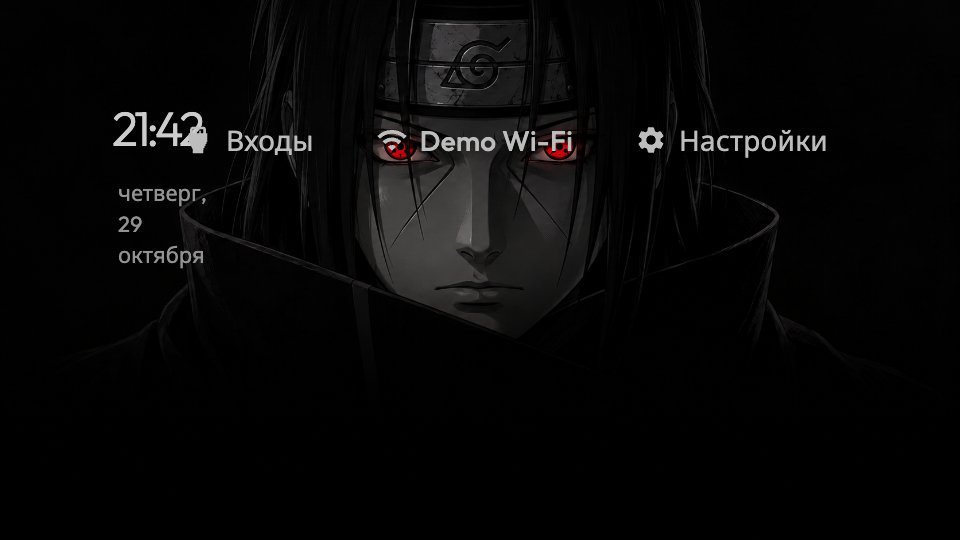
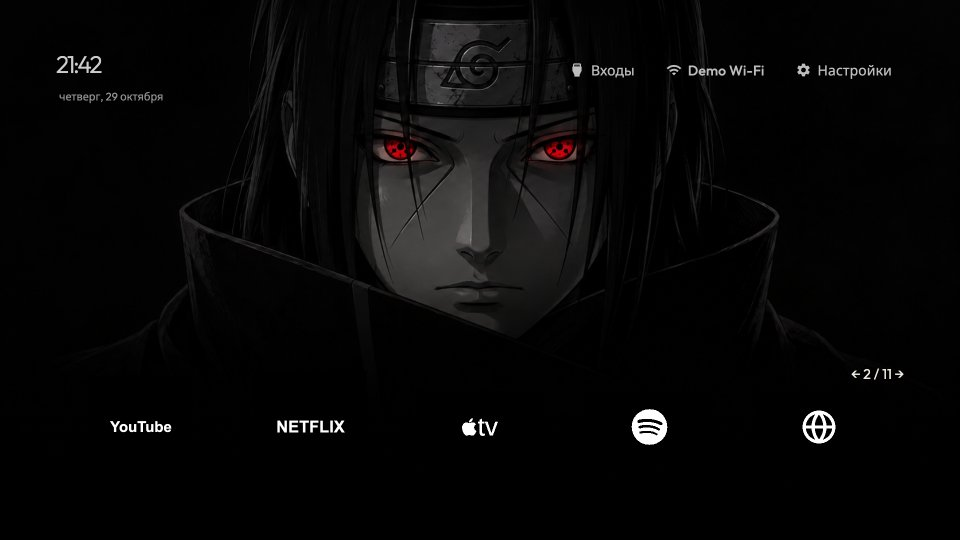
fix(themes): preserve picker state and column preferences

diff --git a/launcher/theme-panel.js b/launcher/theme-panel.js
@@ -6,13 +6,13 @@
  function node(tag,text){var el=document.createElement(tag);if(text!==undefined)el.textContent=t(text);return el;}
  function button(label,fn,id){var b=node('button',label);b.type='button';if(id)b.id=id;b.onclick=fn;card.appendChild(b);return b;}
  function disposePreviews(){previewLeases.forEach(function(lease){lease.dispose();});previewLeases=[];}
- function heading(title,description){var columns=document.getElementById('homeColumns');if(inlineHost&&columns)columns.parentNode.classList.toggle('theme-context-hidden',mode!=='list');disposePreviews();card.textContent='';var titleNode=node('h2',title);if(title==='Themes')titleNode.className='theme-list-title';card.appendChild(titleNode);if(description)card.appendChild(node('p',description));}
+ function heading(title,description){var columns=document.getElementById('homeColumns');if(inlineHost&&columns)columns.parentNode.classList.toggle('theme-context-hidden',mode!=='list');disposePreviews();card.removeAttribute('aria-busy');card.textContent='';var titleNode=node('h2',title);if(title==='Themes')titleNode.className='theme-list-title';card.appendChild(titleNode);if(description)card.appendChild(node('p',description));}
  function message(text){var e=document.getElementById('themeMessage');if(!e){e=node('p');e.id='themeMessage';e.setAttribute('role','status');card.appendChild(e);}e.textContent=t(text);}
  function focusFirst(){var b=card.querySelector('button:not([disabled]),input');if(b)b.focus();}
  function parentVisible(visible){['#renewalPanel','.root-settings'].forEach(function(id){var el=document.querySelector(id);if(el)el.style.visibility=visible?'':'hidden';});}
  function standard(){clearInterval(tick);if(inlineHost){inlineHost.appendChild(panel);panel.classList.add('theme-inline');panel.removeAttribute('aria-modal');panel.setAttribute('role','region');}panel.classList.remove('theme-trial');panel.classList.remove('theme-picker');parentVisible(true);if(root.ThemeRuntime){ThemeRuntime.suspend('themes');if(settingsOwner)ThemeRuntime.suspend('settings');}}
  function picker(){if(inlineHost){standard();return;}clearInterval(tick);panel.classList.remove('theme-trial');panel.classList.add('theme-picker');parentVisible(false);if(root.ThemeRuntime){ThemeRuntime.resume('themes');ThemeRuntime.resume('settings');}}
- function close(){stopReceiver();disposePreviews();var version=++view;if(signal){signal.cancelled=true;if(signal.cancel)signal.cancel();signal=null;}busy=false;root.ThemeManager.cancel().then(function(){if(version!==view)return;standard();if(inlineHost){render();var tab=document.querySelector('[data-category="appearance"]');if(tab)tab.focus();}else{panel.hidden=true;if(root.ThemeRuntime)ThemeRuntime.resume('themes');if(previous)previous.focus();}});}
+ function close(){stopReceiver();if(!inlineHost||!card.querySelector('.theme-installed-grid'))disposePreviews();var version=++view;if(signal){signal.cancelled=true;if(signal.cancel)signal.cancel();signal=null;}busy=false;root.ThemeManager.cancel().then(function(){if(version!==view)return;standard();if(inlineHost){if(card.querySelector('.theme-installed-grid')){mode='list';applying(false);refreshSelected();}else render();var tab=document.querySelector('[data-category="appearance"]');if(tab)tab.focus();}else{panel.hidden=true;if(root.ThemeRuntime)ThemeRuntime.resume('themes');if(previous)previous.focus();}});}
  function deactivate(){stopReceiver();inlineActive=false;if(!panel||panel.hidden)return;view++;disposePreviews();clearInterval(tick);if(signal){signal.cancelled=true;if(signal.cancel)signal.cancel();signal=null;}busy=false;root.ThemeManager.cancel();standard();panel.hidden=true;if(root.ThemeRuntime)ThemeRuntime.resume('themes');}
 
 
@@ -25,7 +25,7 @@
  function render(){stopReceiver();if(!openNow())return;var ownsFocus=panel.contains(document.activeElement);picker();mode='list';busy=true;var version=++view;heading('Themes','Choose a theme for Home. Settings stay standard.');message('Loading themes…');button('Restore Classic',function(){root.ThemeManager.reset();render();});button('Back',close);if(ownsFocus)focusFirst();var loadingFocus=document.activeElement;
   Promise.all([root.ThemeManager.list(),root.ThemeData.request('theme-catalog.json',65536,true).then(function(bytes){return JSON.parse(root.ThemeData.decode(bytes)).themes||[];}).catch(function(){return [];})]).then(function(result){var items=result[0],previews=result[1];if(version!==view)return;var restoreSelected=!inlineHost||panel.contains(document.activeElement)||ownsFocus&&document.activeElement===loadingFocus;busy=false;heading('Themes','Choose a theme for Home. Settings stay standard.');var current=root.ThemeManager.current();if(current.notice)message(current.notice);function isSelected(item){return item.id===current.id&&(!item.digest||item.digest===current.digest);}items=items.filter(isSelected).concat(items.filter(function(item){return !isSelected(item);}));var installed=node('div');installed.className='theme-installed-grid';card.appendChild(installed);
    installed.addEventListener('focusin',function(event){var row=event.target;while(row&&row.parentNode!==installed)row=row.parentNode;if(!row)return;var bounds=row.getBoundingClientRect(),lane=installed.getBoundingClientRect();if(bounds.left<lane.left+8)installed.scrollLeft-=lane.left+8-bounds.left;else if(bounds.right>lane.right-8)installed.scrollLeft+=bounds.right-lane.right+8;});
-   items.forEach(function(item){var selected=item.id===current.id&&(!item.digest||item.digest===current.digest),row=node('div');row.className='theme-option';row.setAttribute('data-selected',String(selected));installed.appendChild(row);var b=node('button');b.type='button';b.className='theme-choice';b.setAttribute('data-theme-id',item.id);b.setAttribute('aria-pressed',String(selected));b.setAttribute('aria-label',item.title+(item.version?' '+item.version:'')+(selected?' · '+t('Selected'):''));b.onclick=function(){selectInstalled(item);};var preview=item.builtin&&previews.filter(function(entry){return entry.id===item.id;})[0];if(preview){try{root.ThemeData.path(preview.preview);if(/^(theme-catalog|themes\/alpine)\//.test(preview.preview))previewImage(preview,b);}catch(_){}}else if(!item.builtin){installedPreview(item,b,version);}b.appendChild(node('strong',item.title));if(selected){var badge=node('span','Selected');badge.className='theme-selected';b.appendChild(badge);}row.appendChild(b);row.appendChild(node('small',item.builtin?'Built-in':'Downloaded'));if(!item.builtin){var meta=node('p',item.version+' · '+item.author+' · '+item.license);meta.className='theme-meta';row.appendChild(meta);}
+   items.forEach(function(item){var selected=item.id===current.id&&(!item.digest||item.digest===current.digest),row=node('div');row.className='theme-option';row.themeItem=item;row.setAttribute('data-selected',String(selected));installed.appendChild(row);var b=node('button');b.type='button';b.className='theme-choice';b.setAttribute('data-theme-id',item.id);b.setAttribute('aria-pressed',String(selected));b.setAttribute('aria-label',item.title+(item.version?' '+item.version:'')+(selected?' · '+t('Selected'):''));b.onclick=function(){selectInstalled(item);};var preview=item.builtin&&previews.filter(function(entry){return entry.id===item.id;})[0];if(preview){try{root.ThemeData.path(preview.preview);if(/^(theme-catalog|themes\/alpine)\//.test(preview.preview))previewImage(preview,b);}catch(_){}}else if(!item.builtin){installedPreview(item,b);}b.appendChild(node('strong',item.title));var badge=node('span','Selected');badge.className='theme-selected';badge.setAttribute('aria-hidden',String(!selected));b.appendChild(badge);row.appendChild(b);row.appendChild(node('small',item.builtin?'Built-in':'Downloaded'));if(!item.builtin){var meta=node('p',item.version+' · '+item.author+' · '+item.license);meta.className='theme-meta';row.appendChild(meta);}
     var rowActions=node('div');rowActions.className='theme-card-actions';row.appendChild(rowActions);var apply=node('button','Apply theme');apply.type='button';apply.onclick=function(){selectInstalled(item);};rowActions.appendChild(apply);
     if(!item.builtin){var remove=node('button','Remove');remove.className='theme-remove';remove.onclick=function(){removeInstalled(item);};rowActions.appendChild(remove);}
    });
@@ -38,8 +38,8 @@
 
   },function(e){if(version===view)failed(e);});
  }
- function installedPreview(item,parent,version){root.ThemeManager.preview(item).then(function(lease){
-  if(version!==view||!openNow()||mode!=='list'){lease.dispose();return;}
+ function installedPreview(item,parent){root.ThemeManager.preview(item).then(function(lease){
+  if(!openNow()||!card.contains(parent)||(mode!=='list'&&mode!=='applying-installed')){lease.dispose();return;}
   try{var image=previewImage({preview:lease.url},parent);image.onerror=function(){image.hidden=true;lease.dispose();};previewLeases.push(lease);}catch(_){lease.dispose();}
  },function(){/* A missing or rejected preview must not hide an installed choice. */});}
  function previewImage(entry,parent){if(!entry.preview)return;var image=node('img');image.src=entry.preview;image.alt='';image.width=480;image.height=270;image.onerror=function(){image.hidden=true;};parent.insertBefore(image,parent.firstChild);return image;}
@@ -51,7 +51,9 @@
  function removeInstalled(item){if(busy)return;standard();view++;mode='remove';heading('Remove theme?',item.title+(item.version?' · '+item.version:''));var active=root.ThemeManager.current();if(active.id===item.id&&active.digest===item.digest)card.appendChild(node('p','Classic will be restored.'));
   button('Remove',function(){if(busy)return;busy=true;mode='removing';var requestView=++view;Array.prototype.forEach.call(card.querySelectorAll('button'),function(b){b.disabled=true;});var current=root.ThemeManager.current();if(current.id===item.id&&current.digest===item.digest)root.ThemeManager.reset();root.ThemeManager.remove(item).then(function(){if(requestView===view){busy=false;render();}},function(e){if(requestView===view)failed(e);});},'themeRemoveConfirm');button('Cancel',render,'themeRemoveCancel').focus();
  }
- function selectInstalled(item){if(busy)return;var version=++view;busy=true;mode='applying-installed';Array.prototype.slice.call(card.querySelectorAll('button')).forEach(function(b){b.disabled=b.onclick!==close;});if(!Array.prototype.slice.call(card.querySelectorAll('button')).some(function(b){return b.onclick===close;}))button('Back',close);focusFirst();root.ThemeManager.selectInstalled(item).then(function(){if(version===view){busy=false;render();}},function(e){if(version===view)failed(e);});}
+ function applying(active){card.setAttribute('aria-busy',String(active));Array.prototype.forEach.call(card.querySelectorAll('button'),function(b){b.disabled=active&&b!==document.activeElement&&b.onclick!==close;if(active&&b.onclick!==close)b.setAttribute('aria-disabled','true');else b.removeAttribute('aria-disabled');});}
+ function refreshSelected(){var current=root.ThemeManager.current();Array.prototype.forEach.call(card.querySelectorAll('.theme-option'),function(row){var item=row.themeItem,selected=item.id===current.id&&(!item.digest||item.digest===current.digest),choice=row.querySelector('.theme-choice');row.setAttribute('data-selected',String(selected));choice.setAttribute('aria-pressed',String(selected));choice.setAttribute('aria-label',item.title+(item.version?' '+item.version:'')+(selected?' · '+t('Selected'):''));row.querySelector('.theme-selected').setAttribute('aria-hidden',String(!selected));});}
+ function selectInstalled(item){if(busy)return;var retained=!!card.querySelector('.theme-installed-grid'),version=++view;busy=true;mode='applying-installed';applying(true);root.ThemeManager.selectInstalled(item).then(function(){if(version===view){busy=false;if(retained){mode='list';applying(false);refreshSelected();}else render();}},function(e){if(version===view)failed(e);});}
  function detail(entry,installed,immediate){mode='detail';var version=++view;heading(entry.title);var hero=node('div');hero.className='theme-detail-preview';previewImage(entry,hero);card.appendChild(hero);if(entry.description)card.appendChild(node('p',entry.description));if(entry.builtin)card.appendChild(node('p','Built-in'));else card.appendChild(node('p',[entry.author,entry.version,entry.license].filter(Boolean).join(' · ')));
   function actions(item){if(version!==view)return;if(item)button(immediate?'Apply theme':'Try theme',function(){if(immediate)selectInstalled(item);else trial(item);},immediate?'themeApply':'themeTry');else button('Download theme',function(){download(entry,true);},'themeDownload');button('Back',catalog);focusFirst();}
   if(entry.builtin||installed)actions(installed||entry);else root.ThemeManager.list().then(function(items){actions(items.filter(function(item){return item.id===entry.id&&item.digest===entry.digest;})[0]);},function(e){if(version===view)failed(e);});

diff --git a/launcher/home-layout.js b/launcher/home-layout.js
@@ -35,11 +35,18 @@
   function create(storage, config, profileData) {
     var preset = 'dock-grid', themeColumns = 5, allowColumnOverride = true, override = valid(config.columns) && config.columns !== 5 ? config.columns : null;
     try {
-      var saved = JSON.parse(storage.getItem(KEY));
+      var raw = storage.getItem(KEY), saved = JSON.parse(raw);
+      // Pre-release profiles captured effective theme columns without a preference key.
+      // Retain genuine legacy migration until themes have actually been used.
+      if (raw === null) {
+        var choice = JSON.parse(storage.getItem('tvhome.theme.choice.v1'));
+        if (choice && typeof choice.id === 'string' && /^(builtin:(classic|alpine)$|github:)/.test(choice.id)) override = null;
+      }
       if (saved && saved.version === 1 && (saved.columns === null || valid(saved.columns))) override = saved.columns;
     } catch (_) {}
     function state() { return {columns: !allowColumnOverride || override === null ? themeColumns : override, override: override, themeColumns: themeColumns, preset: preset, allowColumnOverride: allowColumnOverride}; }
-    function changed() { config.columns = state().columns; if (model.onchange) model.onchange(state()); }
+    // CONFIG is captured into profiles. Store preference, never theme-derived geometry.
+    function changed() { config.columns = override === null ? 5 : override; if (model.onchange) model.onchange(state()); }
     function setColumns(value) {
       if (!allowColumnOverride) throw Error('columns-locked');
       if (value !== null && !valid(value)) throw Error('columns-invalid');
@@ -48,7 +55,7 @@
         var raw = storage.getItem(profileData.key);
         if (raw !== null) {
           profile = profileData.validate(JSON.parse(raw));
-          profile.config.columns = value === null ? themeColumns : value;
+          profile.config.columns = value === null ? 5 : value;
           profile = profileData.validate(profile);
         }
       }

diff --git a/launcher/theme-panel.css b/launcher/theme-panel.css
@@ -94,3 +94,6 @@
 #homeThemePanel #themeReceiverDeadline { font-size:20px; color:#c5ced9; }
 
 #settings-pane-appearance .theme-context-hidden { display:none; }
+
+/* Reserve the badge's space so selecting another card cannot resize the lane. */
+#homeThemePanel .theme-option[data-selected="false"] .theme-selected { visibility:hidden; }

diff --git a/themes/itachi/README.md b/themes/itachi/README.md
@@ -1,4 +1,4 @@
-# Itachi · Sharingan — CSS-only local candidate 1.0.0
+# Itachi · Sharingan — CSS-only local candidate 1.0.1
 
 Dark Itachi wallpaper, crimson eyes and a bottom scenic app ribbon. Every app
 image remains the original source supplied by Home. There are no replacement
@@ -82,3 +82,10 @@ See LICENSE.txt/CREDITS.txt for wallpaper provenance.
 В следующем кандидате: Настройки → Оформление → Темы → Showcase → Itachi.
 ZIP можно передать через актуальный авторский toolkit с кодом приёмника ТВ.
 На физическом телевизоре эта тема ещё не проверена.
+
+## Preview correction in 1.0.1
+
+The preview captures the complete 1920×1080 Home frame before downsampling to
+960×540. Clock, shortcuts and the bottom native-icon ribbon remain in the image.
+Theme CSS, wallpaper and native application image sources are unchanged.
+The historical immutable 1.0.0 distribution is retained.
